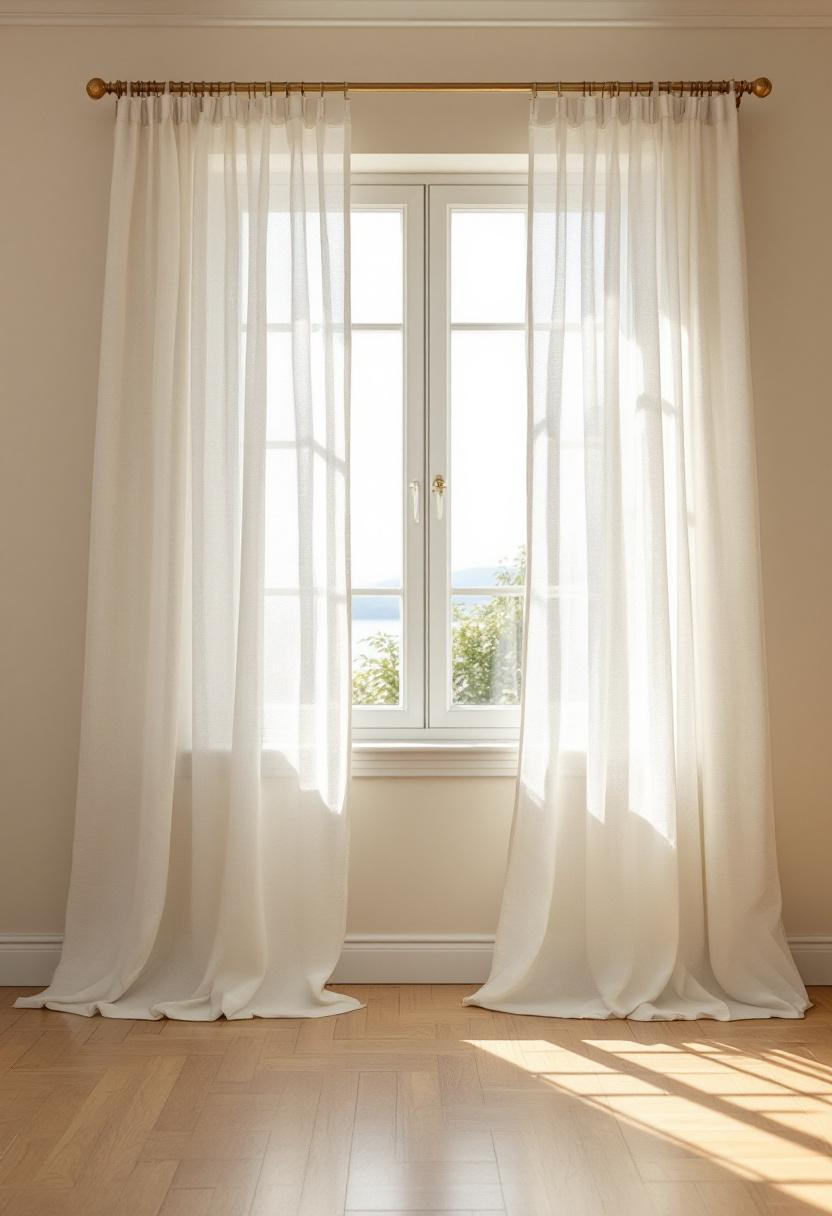
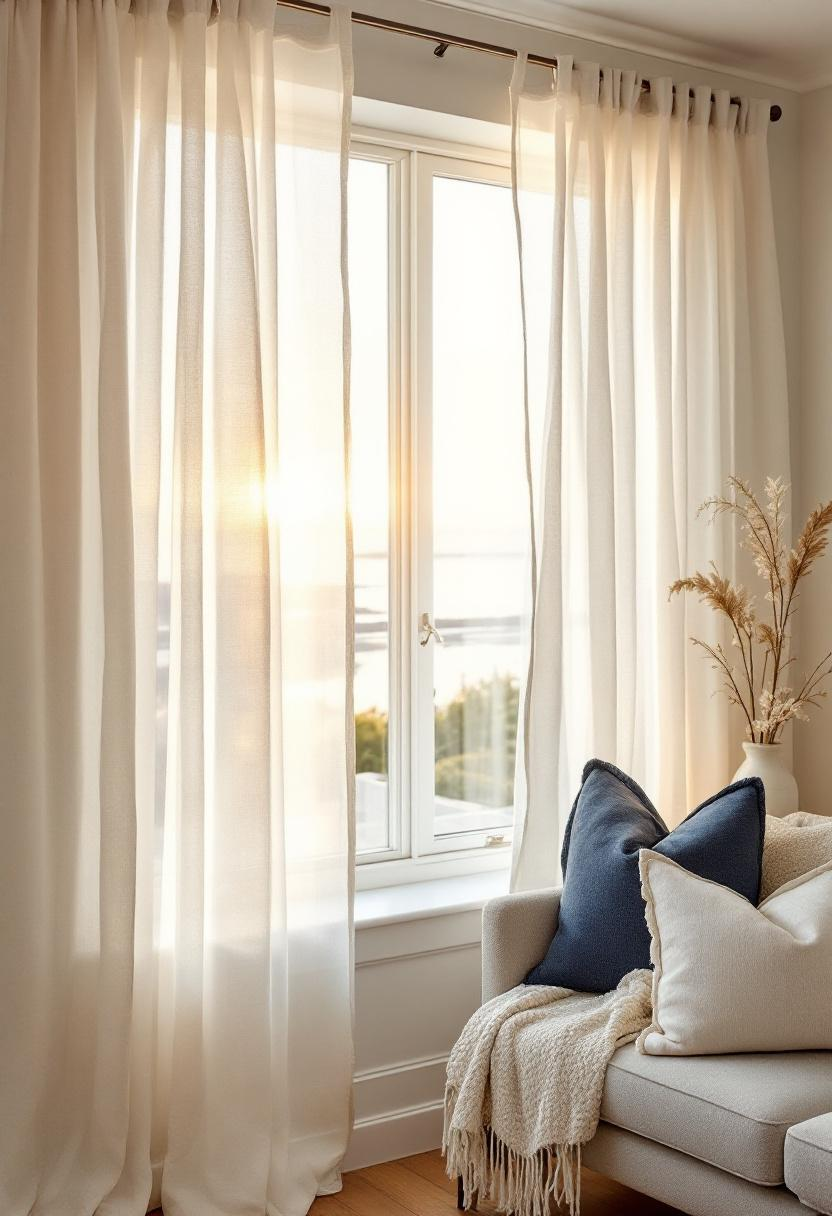
fix: ASIN jute rug, better images for curtains/basket/art, add pin copy

diff --git a/agency/pins/summer-coastal-pins-2026-05-04.md b/agency/pins/summer-coastal-pins-2026-05-04.md
@@ -1,0 +1,57 @@
+# Coastal Summer Palette — Pin Copy
+**Blog:** cozyhouse-decor.com/blog/summer-coastal-palette-navy-natural
+**Date:** 2026-05-04
+
+---
+
+## PIN 1 — Jute Rug
+- **Image:** summer-coastal-1.jpg
+- **Board:** Living Room Inspiration
+- **Title:** The $90 Rug That Makes Every Living Room Look Designed
+- **Description:** A natural jute rug changes the entire foundation of a room. It adds warmth, texture, and that coastal feel without a single seashell. The best part? It costs less than a dinner out and looks better the more you walk on it. Save this for your next room refresh.
+- **Link:** https://cozyhouse-decor.com/blog/summer-coastal-palette-navy-natural
+
+---
+
+## PIN 2 — Navy Pillows
+- **Image:** summer-coastal-2.jpg
+- **Board:** Living Room Ideas
+- **Description:** Navy is the color that makes coastal work — deep enough to ground the room, soft enough to feel relaxing. Two navy linen pillow covers for under $20, and the whole room shifts. This is the fastest way to bring coastal energy into any living room.
+- **Title:** Two Throw Pillows That Will Change Your Living Room Color Palette
+- **Link:** https://cozyhouse-decor.com/blog/summer-coastal-palette-navy-natural
+
+---
+
+## PIN 3 — Sheer Curtains
+- **Image:** summer-coastal-3.jpg
+- **Board:** Cozy Home / Hygge
+- **Title:** The Coastal Curtain Trick That Makes Every Room Feel Bigger
+- **Description:** Heavy drapes eat light. White linen sheers transform it. This one swap costs $20 and makes people walk in and say "it feels so much lighter in here." Hang them high and wide for the full coastal effect.
+- **Link:** https://cozyhouse-decor.com/blog/summer-coastal-palette-navy-natural
+
+---
+
+## PIN 4 — Woven Basket
+- **Image:** summer-coastal-4.jpg
+- **Board:** Living Room Inspiration
+- **Title:** The $30 Basket That Coastal Designers Swear By
+- **Description:** A large woven basket beside the sofa — filled with throws — is the detail that separates decorated from designed. Rattan and seagrass bring that sun-bleached coastal feel without being themey. Practical storage that looks intentional.
+- **Link:** https://cozyhouse-decor.com/blog/summer-coastal-palette-navy-natural
+
+---
+
+## PIN 5 — Coastal Art
+- **Image:** summer-coastal-5.jpg
+- **Board:** Living Room Ideas
+- **Title:** This Coastal Gallery Wall Cost Under $30 to Make
+- **Description:** Blank walls kill coastal energy. A set of three abstract prints in navy, cream and sand tones creates a gallery wall that looks expensive. Frame them in natural wood or white for the full coastal aesthetic.
+- **Link:** https://cozyhouse-decor.com/blog/summer-coastal-palette-navy-natural
+
+---
+
+## PIN 6 — Ceramic Vases + Dried Florals
+- **Image:** summer-coastal-6.jpg
+- **Board:** Cozy Home / Hygge
+- **Title:** The Coastal Vase Trick That Looks Like You Spent $300
+- **Description:** White ceramic vases in different heights with dried pampas grass. Three objects, one surface, ten seconds of styling. This is how you finish a coastal room without overspending.
+- **Link:** https://cozyhouse-decor.com/blog/summer-coastal-palette-navy-natural

diff --git a/src/content/blog/summer-coastal-palette-navy-natural.md b/src/content/blog/summer-coastal-palette-navy-natural.md
@@ -22,8 +22,7 @@ The 6x9 size is the sweet spot for a standard living room: big enough to anchor 
 [![A natural undyed jute area rug on a light wood floor, neutral linen sofa above it, navy throw pillows visible, coastal living room with morning light, editorial interior photography](/images/blog/summer-coastal-1.jpg)](https://www.amazon.com/dp/B08X4FKMST/?tag=cozyhouse0a21-20)
 
 ### 🛒 Shop the Look
-- [nuLOOM Natural Jute Area Rug, 6x9 — $85-120](https://www.amazon.com/dp/B08X4FKMST/?tag=cozyhouse0a21-20) — Handwoven, 100% jute, braided edge. The foundation of every coastal living room.
-- [SAFAVIEH Natural Fiber Seagrass Rug, 6x9 — $90-130](https://www.amazon.com/dp/B07NQKXFHG/?tag=cozyhouse0a21-20) — Tight woven seagrass with cotton border. More structured than jute, still natural.
+- [nuLOOM Natural Jute Area Rug, 6x9 — $85-120](https://www.amazon.com/dp/B07NQKXFHG/?tag=cozyhouse0a21-20) — Tight woven natural seagrass, 6x9, with cotton border. The foundation of every coastal living room.
 
 ---
 